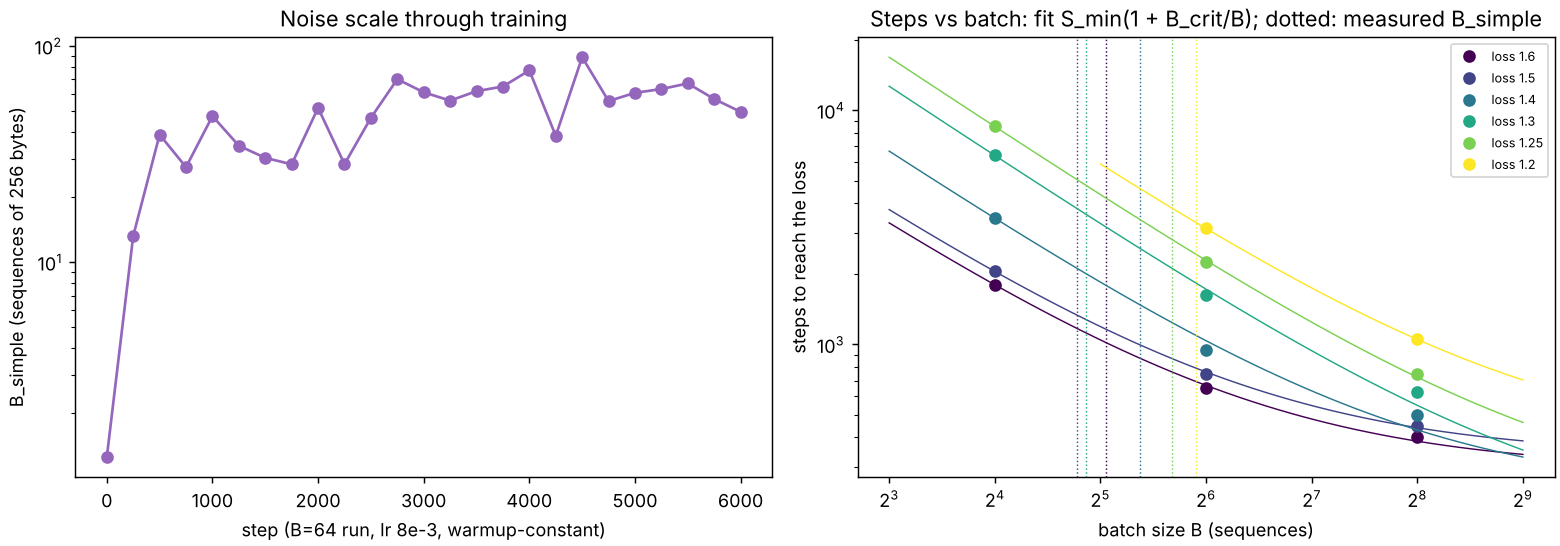
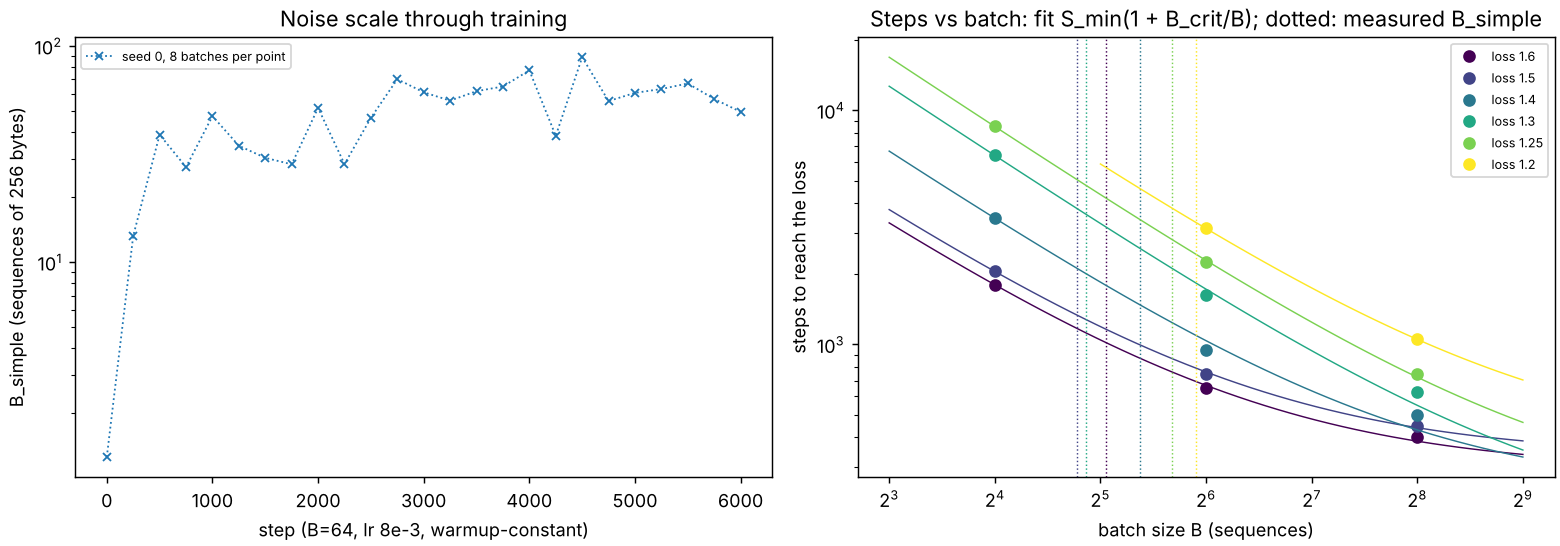
N2 analysis: every noise run (seeds, batches per point); B_simple at a loss is the median over precise runs
Claude-Session: https://claude.ai/code/session_01JxKsaueiqgnitLybKZD9fH

diff --git a/experiments/n2_noise_scale/analyze.py b/experiments/n2_noise_scale/analyze.py
@@ -49,16 +49,18 @@ def summarise() -> dict:
     runs, noise = load("batch"), load("noise")
     batches = sorted({r["batch"] for r in runs})
     out = {"targets": {}, "batches": batches}
-    if noise:
-        run = noise[0]
-        ms = run["measurements"]
-        out["noise_run"] = {
-            "steps": [m["step"] for m in ms],
-            "b_simple": [m["b_simple"] for m in ms],
-            "trace_sigma": [m["trace_sigma"] for m in ms],
-            "grad_norm_sq": [m["grad_norm_sq"] for m in ms],
-            "measure_seconds": float(np.median([m["seconds"] for m in ms])),
+    out["noise_runs"] = [
+        {
+            "seed": run["seed"],
+            "noise_batches": run["noise_batches"],
+            "steps": [m["step"] for m in run["measurements"]],
+            "b_simple": [m["b_simple"] for m in run["measurements"]],
+            "trace_sigma": [m["trace_sigma"] for m in run["measurements"]],
+            "grad_norm_sq": [m["grad_norm_sq"] for m in run["measurements"]],
+            "measure_seconds": float(np.median([m["seconds"] for m in run["measurements"]])),
         }
+        for run in noise
+    ]
     for level in TARGETS:
         per_b = {}
         for b in batches:
@@ -76,13 +78,18 @@ def summarise() -> dict:
             a, slope = np.linalg.lstsq(np.stack([np.ones_like(bs), 1 / bs], 1), s, rcond=None)[0]
             entry["fit"] = {"s_min": float(a), "b_crit": float(slope / a) if a > 0 else None,
                             "residual_rel": float(np.max(np.abs(a + slope / bs - s) / s))}
-        if noise:
-            steps, loss = smoothed(noise[0]["train_history"])
+        at_level = []
+        for run, nr in zip(noise, out["noise_runs"], strict=True):
+            steps, loss = smoothed(run["train_history"])
             hit = np.nonzero(loss <= level)[0]
             if hit.size:
-                at = steps[hit[0]]
-                entry["noise_run_step"] = float(at)
-                entry["b_simple_at_level"] = float(np.interp(at, out["noise_run"]["steps"], out["noise_run"]["b_simple"]))
+                at = float(steps[hit[0]])
+                at_level.append({"seed": run["seed"], "noise_batches": run["noise_batches"], "step": at,
+                                 "b_simple": float(np.interp(at, nr["steps"], nr["b_simple"]))})
+        if at_level:
+            entry["b_simple_at_level"] = at_level
+            precise = [a["b_simple"] for a in at_level if a["noise_batches"] >= 32] or [a["b_simple"] for a in at_level]
+            entry["b_simple_median"] = float(np.median(precise))
         out["targets"][f"{level:g}"] = entry
     return out
 
@@ -94,13 +101,15 @@ def plot(summary: dict) -> None:
     import matplotlib.pyplot as plt
 
     fig, axes = plt.subplots(1, 2, figsize=(12, 4.2), constrained_layout=True)
-    if "noise_run" in summary:
-        nr = summary["noise_run"]
-        axes[0].plot(nr["steps"], nr["b_simple"], "o-", color="tab:purple")
-        axes[0].set_xlabel("step (B=64 run, lr 8e-3, warmup-constant)")
-        axes[0].set_ylabel("B_simple (sequences of 256 bytes)")
-        axes[0].set_yscale("log")
-        axes[0].set_title("Noise scale through training")
+    for nr in summary["noise_runs"]:
+        style = "o-" if nr["noise_batches"] >= 32 else "x:"
+        axes[0].plot(nr["steps"], nr["b_simple"], style, ms=4, lw=1,
+                     label=f"seed {nr['seed']}, {nr['noise_batches']} batches per point")
+    axes[0].set_xlabel("step (B=64, lr 8e-3, warmup-constant)")
+    axes[0].set_ylabel("B_simple (sequences of 256 bytes)")
+    axes[0].set_yscale("log")
+    axes[0].set_title("Noise scale through training")
+    axes[0].legend(fontsize=7)
     ax = axes[1]
     cmap = plt.get_cmap("viridis")
     levels = [k for k, v in summary["targets"].items() if "fit" in v]
@@ -111,8 +120,8 @@ def plot(summary: dict) -> None:
         ax.plot(bs, [v["per_batch"][b]["steps"] for b in bs], "o", color=color, label=f"loss {key}")
         grid = np.geomspace(min(bs) / 2, max(bs) * 2, 50)
         ax.plot(grid, v["fit"]["s_min"] * (1 + v["fit"]["b_crit"] / grid), "-", color=color, lw=0.8)
-        if v.get("b_simple_at_level"):
-            ax.axvline(v["b_simple_at_level"], color=color, ls=":", lw=0.8)
+        if v.get("b_simple_median"):
+            ax.axvline(v["b_simple_median"], color=color, ls=":", lw=0.8)
     ax.set_xscale("log", base=2)
     ax.set_yscale("log")
     ax.set_xlabel("batch size B (sequences)")
@@ -125,16 +134,16 @@ def plot(summary: dict) -> None:
 
 def main() -> None:
     summary = summarise()
-    if "noise_run" in summary:
-        nr = summary["noise_run"]
-        print("B_simple through training:", [(s, round(b, 1)) for s, b in zip(nr["steps"], nr["b_simple"], strict=True)])
+    for nr in summary["noise_runs"]:
+        print(f"B_simple, seed {nr['seed']}, {nr['noise_batches']} batches:",
+              [(s, round(b, 1)) for s, b in zip(nr["steps"], nr["b_simple"], strict=True)])
     for key, v in summary["targets"].items():
         line = f"loss {key}: " + ", ".join(
             f"B={b}: {e['steps']:.0f} steps (lr {e['lr']:g}{' EDGE' if e['lr_at_grid_edge'] else ''})" for b, e in v["per_batch"].items())
         if "fit" in v:
             line += f" | S_min {v['fit']['s_min']:.0f}, B_crit {v['fit']['b_crit']:.1f}, max resid {v['fit']['residual_rel']:.2f}"
-        if "b_simple_at_level" in v:
-            line += f" | B_simple {v['b_simple_at_level']:.1f} (step {v['noise_run_step']:.0f})"
+        if "b_simple_median" in v:
+            line += f" | B_simple {v['b_simple_median']:.1f} " + str([(a["seed"], a["noise_batches"], round(a["b_simple"], 1)) for a in v["b_simple_at_level"]])
         print(line)
     plot(summary)
     (ROOT / "docs" / "data" / "n2-summary.json").write_text(json.dumps(summary, indent=1) + "\n")
